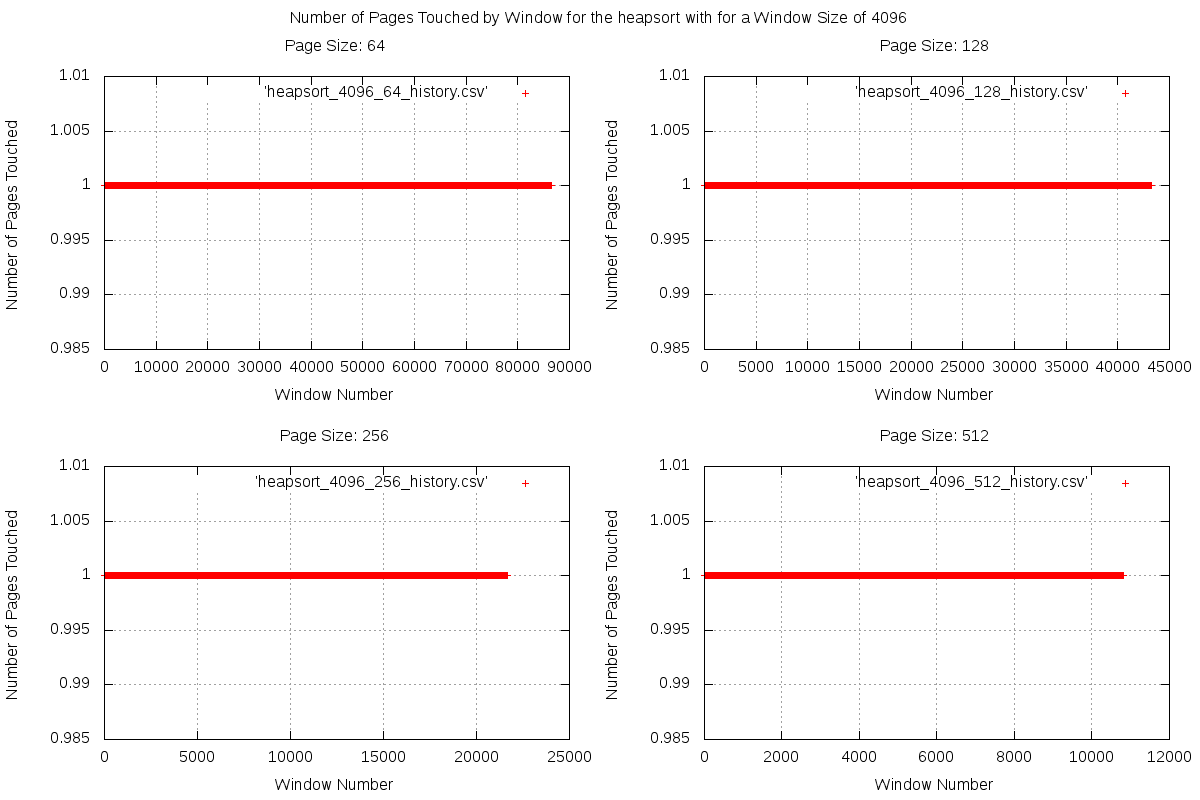
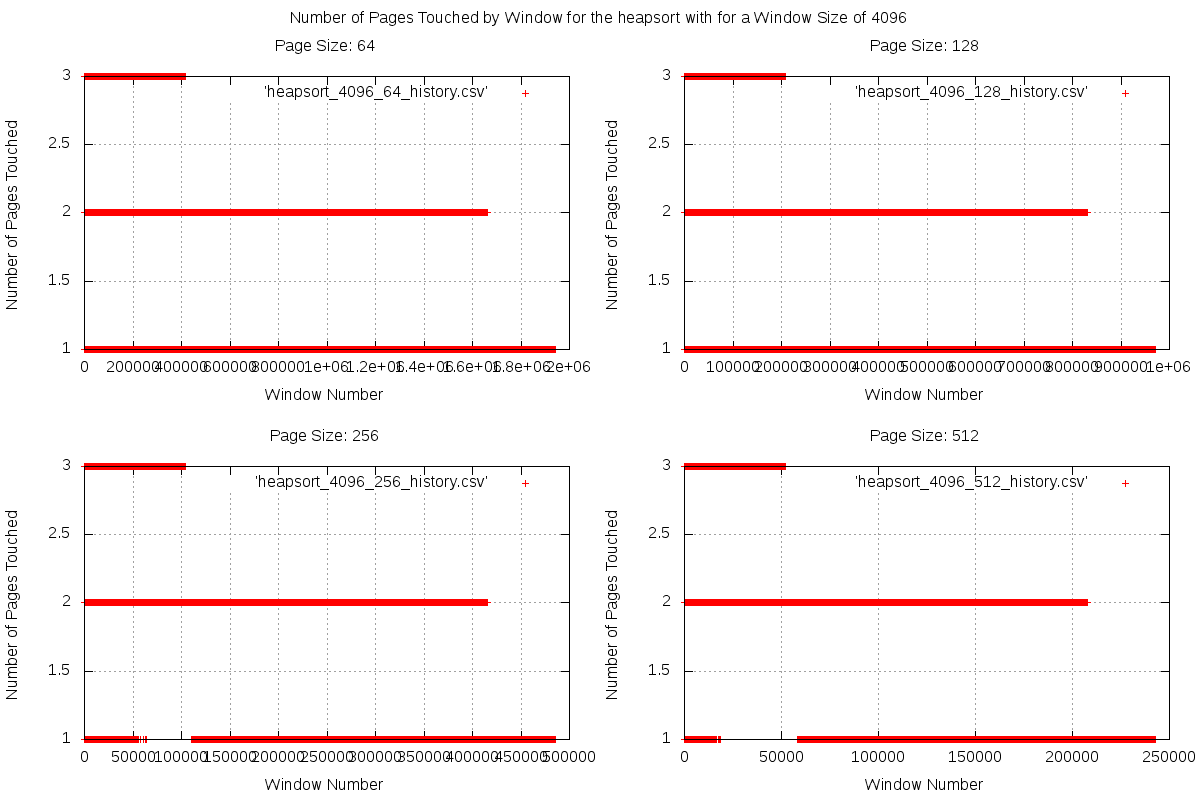
plotsss

diff --git a/heapsort.c b/heapsort.c
@@ -67,7 +67,7 @@ void process() {
 	//scanf("%d", &N);
 	//printf("Sorting %1d keys\n", N);
     init (128, 1000);
-    N = 2048;
+    N = 10000;
 
 	for(i=0; i<N; i++) put(i, lrand48 ());
 	
